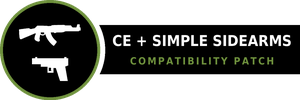
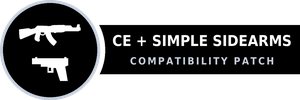
assets: recolored suite badges + EM-Metals badge (palette rebalance); docs: UPMM->MMP
Pick up the new suite palette badges + the EM-Metals badge; swap the retired
UPMM cross-link for More Mod Patches for Expanded Materials - Metals.

Claude-Session: https://claude.ai/code/session_01P8KGqMWXs1NiRZudGV5mNa

Changed region(s): [[0.0, 0.0, 0.36, 1.0], [0.42, 0.57, 0.93, 0.66]]

diff --git a/README.md b/README.md
@@ -39,7 +39,7 @@ Mods that make Combat Extended and Simple Sidearms run together smoothly.
 <table>
 <tr><th width="300">Mod</th><th width="540">What it does</th></tr>
 <tr><td width="300"><a href="https://github.com/eebette/Pawns-Optimize-Weapon-Quality"><img src="Media/Badge_POWQ.png" width="300" alt="Pawns Optimize Weapon Quality"></a></td><td width="540">Pawns will upgrade their held guns when a higher-quality copy is available.</td></tr>
-<tr><td width="300"><a href="https://github.com/eebette/Universal-Patch-for-More-Materials"><img src="Media/Badge_UPMM.png" width="300" alt="Universal Patch for More Materials"></a></td><td width="540">Adds materials from <a href="https://steamcommunity.com/sharedfiles/filedetails/?id=3055040889">More Materials</a> to non-vanilla recipes.</td></tr>
+<tr><td width="300"><a href="https://github.com/eebette/More-Mod-Patches-for-Expanded-Materials-Metals"><img src="Media/Badge_MMP.png" width="300" alt="Expanded Materials - Metals: Mod Patches"></a></td><td width="540">Extends <a href="https://steamcommunity.com/sharedfiles/filedetails/?id=3333419387">Expanded Materials - Metals</a> to modded buildings it doesn't cover.</td></tr>
 </table>
 
 ## FAQ
